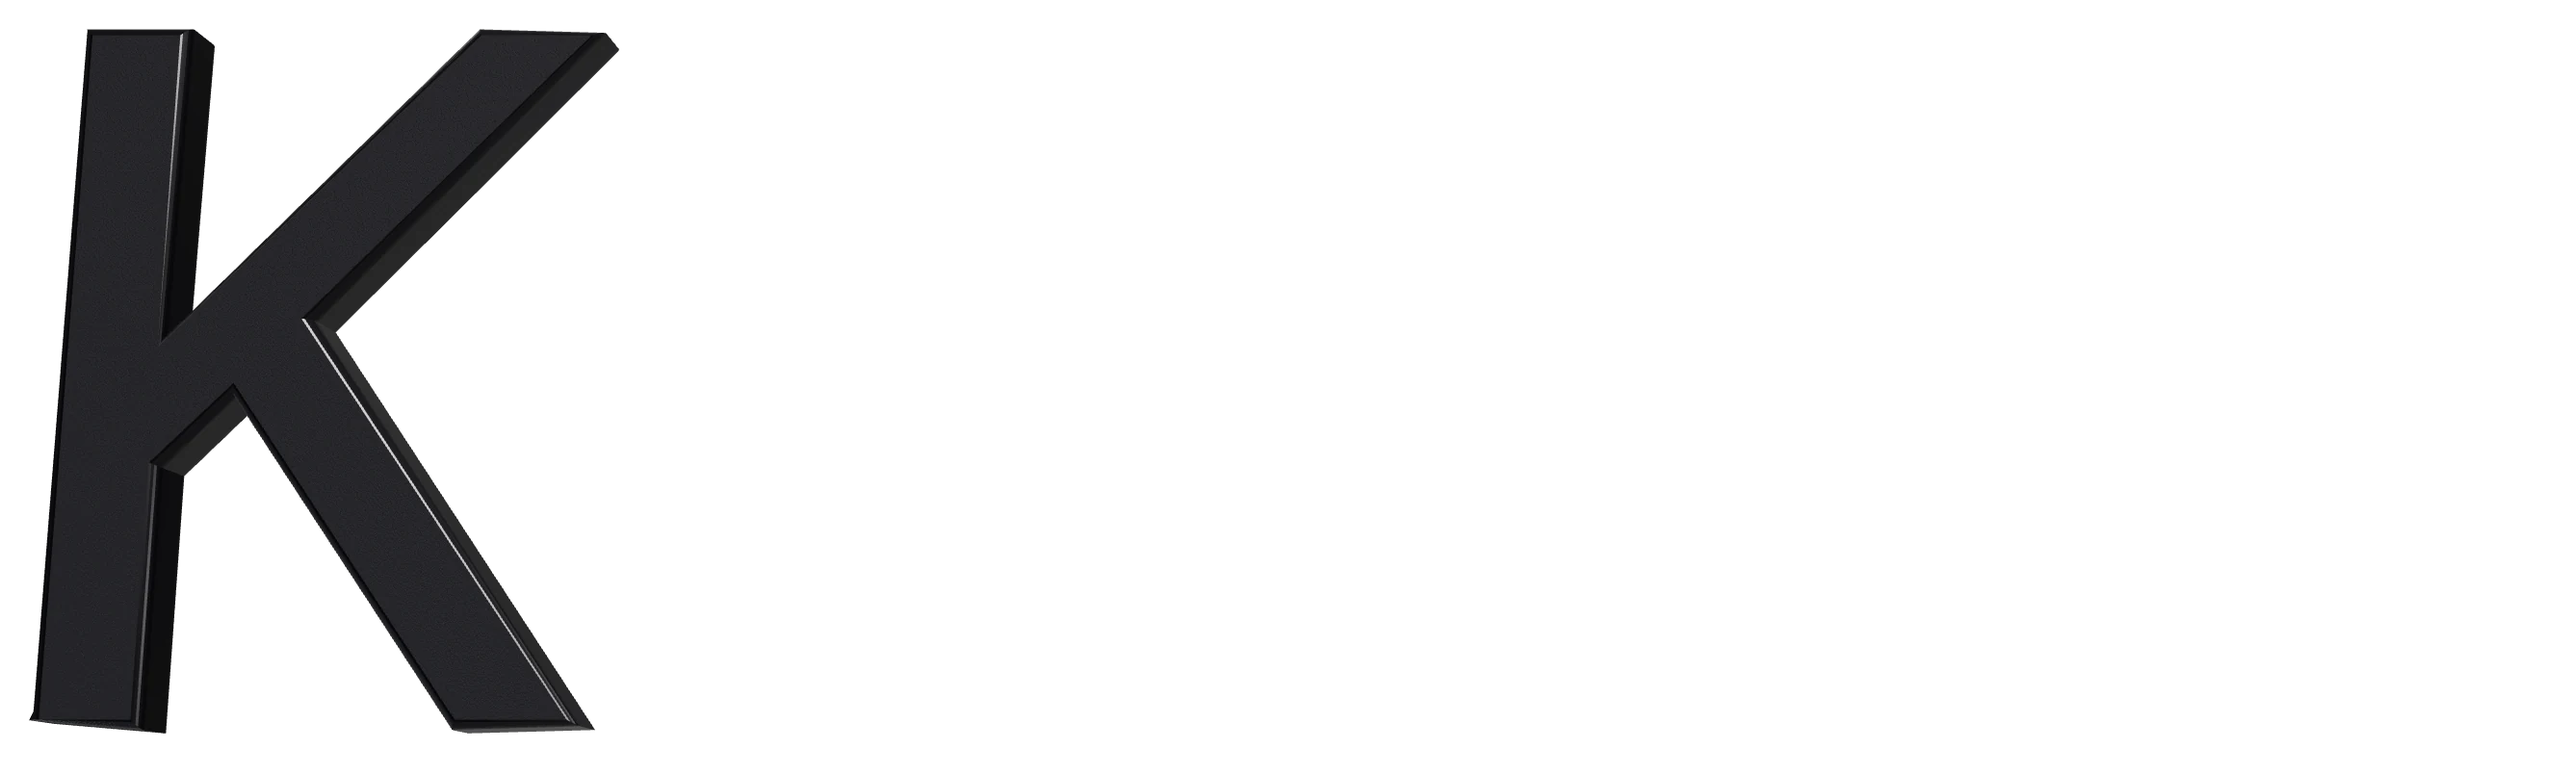
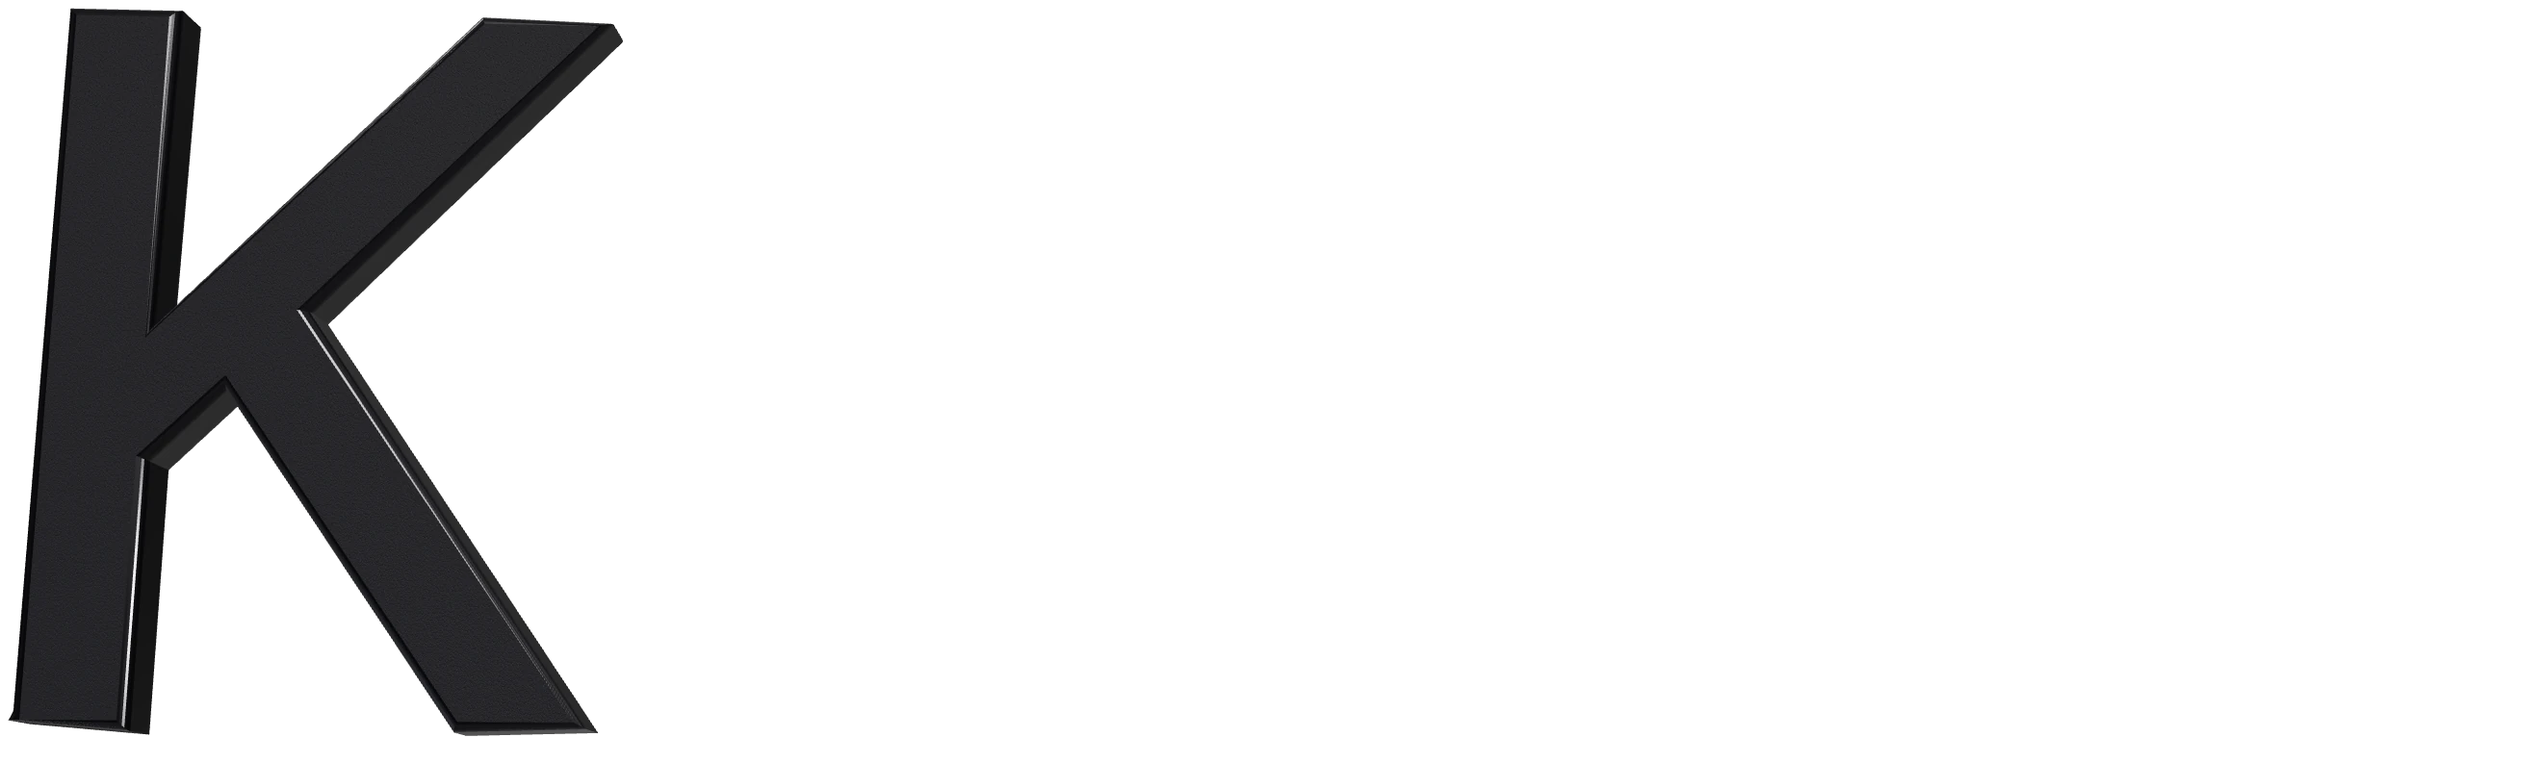
Undo PR #25: back to the site exactly as it was before
Claude-Session: https://claude.ai/code/session_01TzKr7zB4pgipMB48TkAQR8

diff --git a/src/nx/NxHome.tsx b/src/nx/NxHome.tsx
@@ -1,4 +1,4 @@
-import { useEffect, useRef, useState } from 'react'
+import { useState } from 'react'
 import type { FormEvent } from 'react'
 import { Link } from 'react-router-dom'
 import { BrandMarquee } from '../components/BrandMarquee'
@@ -17,20 +17,18 @@ export const FEATURED = ['Ipaybtc', 'Refreeg', '3Projects', 'Tagmi']
 export function NxHome() {
   return (
     <div className="nx-page nx-home">
-      <section className="nx-hero">
-        <div className="nx-split nx-intro">
-          <div />
-          <p className="nx-lead">
-            We help ambitious startups and businesses build brands and digital
-            products that are ready to compete globally.
-          </p>
-        </div>
-        <HeroMark />
-        <p className="nx-label nx-hero-brands">Some of the brands we have worked with:</p>
+      <section className="nx-split nx-intro">
+        <div />
+        <p className="nx-lead">
+          We help ambitious startups and businesses build brands and digital
+          products that are ready to compete globally.
+        </p>
       </section>
 
-      {/* Everything below is one sheet that slides up over the logo. */}
-      <div className="nx-sheet">
+      <div className="nx-mark">
+        <NxHeroLoop />
+      </div>
+
       <section className="nx-logos" aria-label="Brands we have worked with">
         <BrandMarquee />
       </section>
@@ -78,37 +76,6 @@ export function NxHome() {
       </section>
 
       <Newsletter />
-      </div>
-    </div>
-  )
-}
-
-/* The logo loop sits at the foot of the first screen. It drifts at half
-   the scroll speed, so the sheet below catches up with it and covers it. */
-function HeroMark() {
-  const ref = useRef<HTMLDivElement>(null)
-  useEffect(() => {
-    const el = ref.current
-    if (!el || window.matchMedia('(prefers-reduced-motion: reduce)').matches) return
-    let frame = 0
-    const update = () => {
-      frame = 0
-      const y = Math.min(window.scrollY, window.innerHeight * 1.5)
-      el.style.translate = `0 ${(y * 0.5).toFixed(1)}px`
-    }
-    const onScroll = () => {
-      if (!frame) frame = requestAnimationFrame(update)
-    }
-    update()
-    window.addEventListener('scroll', onScroll, { passive: true })
-    return () => {
-      window.removeEventListener('scroll', onScroll)
-      cancelAnimationFrame(frame)
-    }
-  }, [])
-  return (
-    <div ref={ref} className="nx-mark">
-      <NxHeroLoop />
     </div>
   )
 }

diff --git a/src/nx/nx.css b/src/nx/nx.css
@@ -163,33 +163,6 @@
 
 /* Home ------------------------------------------------------------------- */
 
-/* The first screen: the intro up top, the logo loop at the foot. The
-   sheet after it is opaque and sits above, so on scroll its top line
-   slides up over the logo. */
-.nx-hero {
-  position: relative;
-  z-index: 0;
-  min-height: calc(100svh - var(--nx-head));
-  display: flex;
-  flex-direction: column;
-}
-
-.nx-hero-brands {
-  position: absolute;
-  left: 0;
-  bottom: 12px;
-  z-index: 1;
-  color: var(--text);
-}
-
-.nx-sheet {
-  position: relative;
-  z-index: 1;
-  margin: 0 calc(-1 * var(--nx-g));
-  padding: 0 var(--nx-g);
-  background: var(--bg);
-}
-
 .nx-intro {
   padding: 12px 0 0;
 }
@@ -200,8 +173,7 @@
 
 /* The logo animation, looping in grey across the whole page. */
 .nx-mark {
-  margin: auto 0 clamp(40px, 4vw, 64px);
-  will-change: translate;
+  margin: clamp(32px, 6vw, 110px) 0 clamp(8px, 1vw, 16px);
   --nx-loop: #2a2a2a;
   --nx-loop-fly: #3a3a3a;
 }
@@ -752,7 +724,7 @@
 
 .nx-glass {
   position: relative;
-  aspect-ratio: 2675 / 805;
+  aspect-ratio: 2632 / 793;
   overflow: hidden;
 }
 
